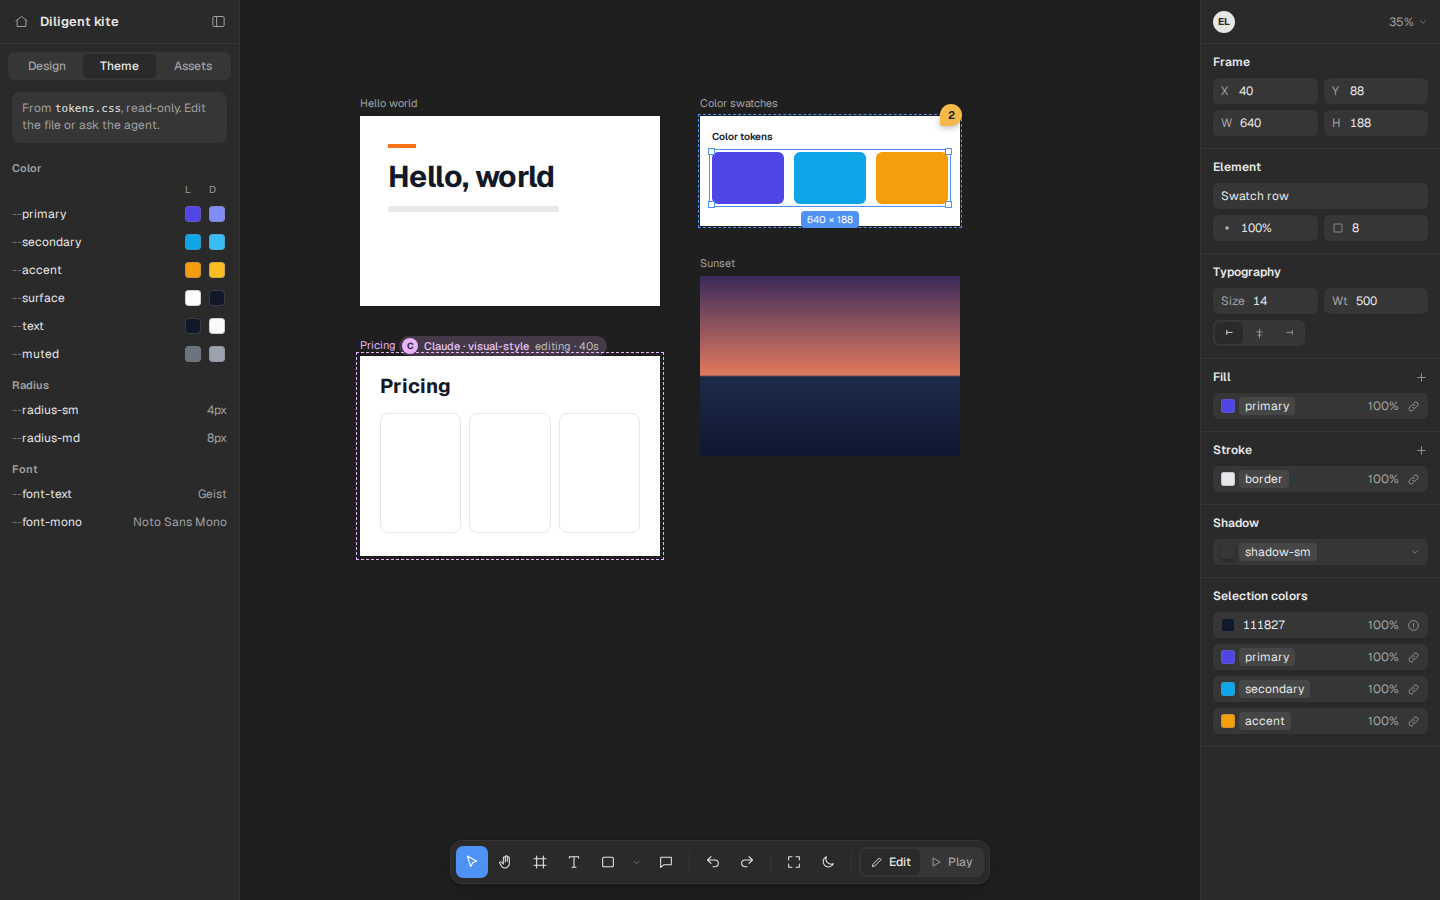
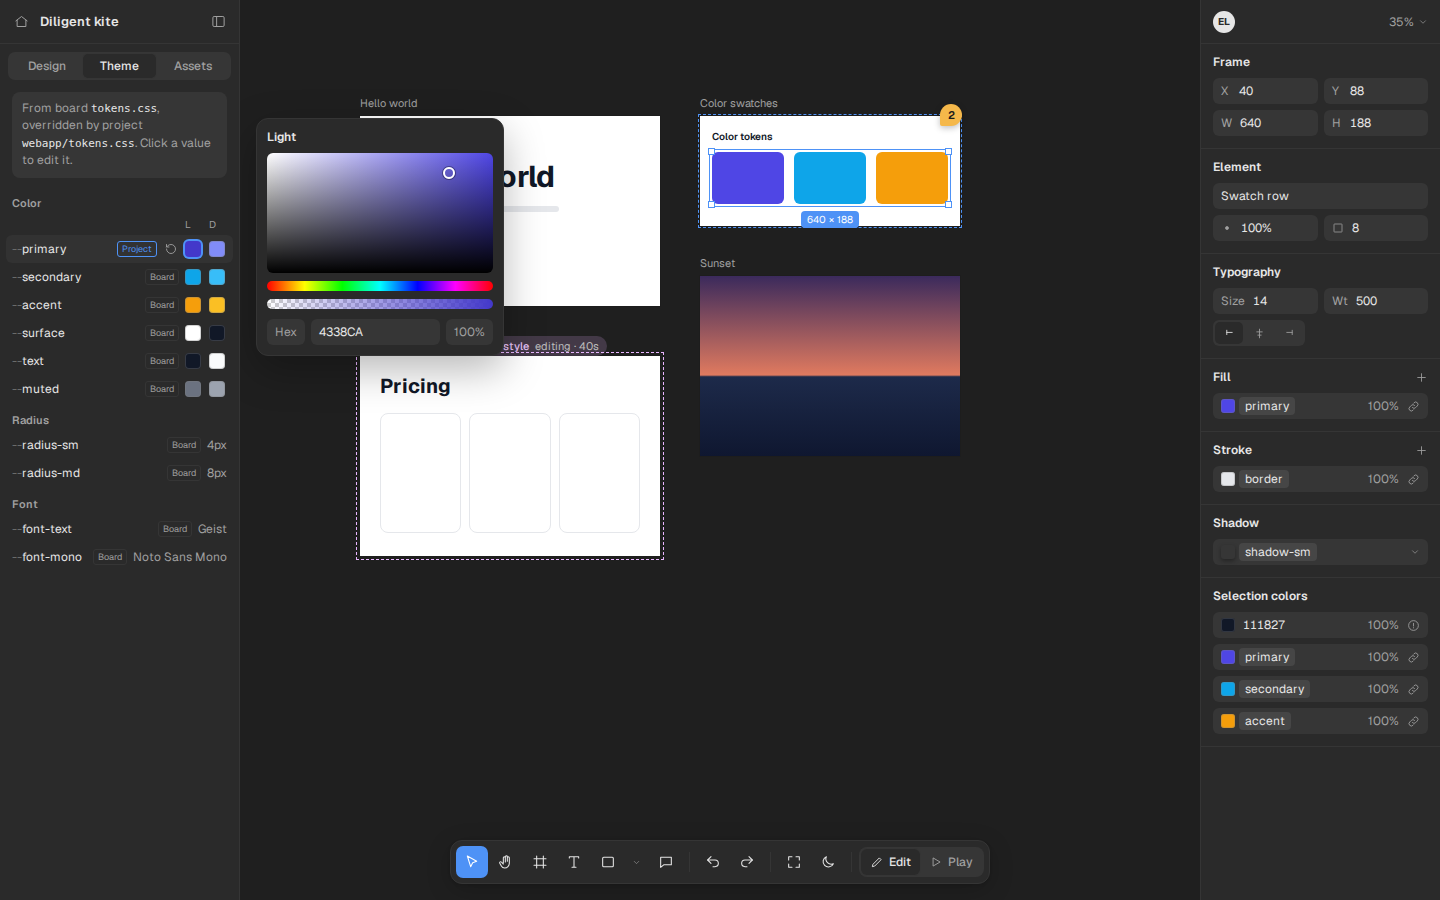
docs(design): redraw the Theme tab with tags, a reset, and the picker

Changed region(s): [[0.1875, 0.1244, 0.375, 0.4356], [0.0, 0.2178, 0.1562, 0.6222], [0.0, 0.0933, 0.1562, 0.1867]]

diff --git a/canon/design/tabs/theme.html b/canon/design/tabs/theme.html
@@ -936,6 +936,100 @@
         white-space: nowrap;
         overflow: hidden;
         text-overflow: ellipsis;
+        flex: 1;
+        min-width: 0;
+      }
+      .trow .th {
+        display: flex;
+        align-items: center;
+        gap: 6px;
+        min-width: 0;
+      }
+      .ttag {
+        flex: none;
+        font-size: 9px;
+        line-height: 14px;
+        padding: 0 4px;
+        border-radius: 3px;
+        border: 1px solid var(--border);
+        color: var(--muted);
+      }
+      .ttag.p {
+        border-color: var(--accent);
+        color: var(--accent);
+      }
+      .trst {
+        flex: none;
+        display: grid;
+        place-items: center;
+        width: 16px;
+        height: 16px;
+        color: var(--muted);
+      }
+      .trow.on {
+        background: var(--hover);
+      }
+      .tsw.ring {
+        box-shadow: 0 0 0 2px var(--accent);
+      }
+      .tpick {
+        position: absolute;
+        left: 16px;
+        top: 118px;
+        width: 248px;
+        padding: 10px;
+        background: var(--panel);
+        border: 1px solid var(--border);
+        border-radius: 12px;
+        box-shadow: 0 14px 40px rgba(0, 0, 0, 0.28);
+        z-index: 6;
+        font-size: 12px;
+      }
+      .tpick b {
+        display: block;
+        font-weight: 600;
+        margin-bottom: 8px;
+      }
+      .tpick .sq {
+        height: 120px;
+        border-radius: 6px;
+        background:
+          linear-gradient(to top, #000, transparent),
+          linear-gradient(to right, #fff, #4f46e5);
+        position: relative;
+      }
+      .tpick .sq i {
+        position: absolute;
+        left: 78%;
+        top: 12%;
+        width: 12px;
+        height: 12px;
+        border-radius: 6px;
+        border: 2px solid #fff;
+        box-shadow: 0 0 0 1px rgba(0, 0, 0, 0.35);
+      }
+      .tpick .bar {
+        height: 10px;
+        border-radius: 5px;
+        margin-top: 8px;
+      }
+      .tpick .hexrow {
+        display: flex;
+        gap: 6px;
+        margin-top: 10px;
+      }
+      .tpick .hf {
+        height: 26px;
+        border-radius: 6px;
+        background: var(--raised);
+        display: flex;
+        align-items: center;
+        padding: 0 8px;
+        color: var(--muted);
+      }
+      .tpick .hf.v {
+        flex: 1;
+        color: var(--text);
       }
       .trow .tn em {
         font-style: normal;
@@ -1251,61 +1345,126 @@
           ><button>Assets</button>
         </div>
         <div class="tsrc">
-          From <code>tokens.css</code>, read-only. Edit the file or ask the
-          agent.
+          From board <code>tokens.css</code>, overridden by project
+          <code>webapp/tokens.css</code>. Click a value to edit it.
         </div>
         <div class="sec"><span>Color</span></div>
         <div class="thead"><span></span><span>L</span><span>D</span></div>
-        <div class="trow">
-          <span class="tn"><em>--</em>primary</span
-          ><span class="tsw" style="background: #4f46e5"></span
+        <div class="trow on">
+          <span class="th"
+            ><span class="tn"><em>--</em>primary</span
+            ><span class="ttag p">Project</span
+            ><span class="trst" title="Reset to the board value"
+              ><svg
+                class="ic"
+                width="12"
+                height="12"
+                viewBox="0 0 24 24"
+                fill="none"
+                stroke="currentColor"
+                stroke-width="1.8"
+                stroke-linecap="round"
+                stroke-linejoin="round"
+              >
+                <path d="M3 12a9 9 0 109-9 9.75 9.75 0 00-6.74 2.74L3 8" />
+                <path d="M3 3v5h5" /></svg></span></span
+          ><span class="tsw ring" style="background: #4338ca"></span
           ><span class="tsw" style="background: #818cf8"></span>
         </div>
         <div class="trow">
-          <span class="tn"><em>--</em>secondary</span
+          <span class="th"
+            ><span class="tn"><em>--</em>secondary</span
+            ><span class="ttag">Board</span></span
           ><span class="tsw" style="background: #0ea5e9"></span
           ><span class="tsw" style="background: #38bdf8"></span>
         </div>
         <div class="trow">
-          <span class="tn"><em>--</em>accent</span
+          <span class="th"
+            ><span class="tn"><em>--</em>accent</span
+            ><span class="ttag">Board</span></span
           ><span class="tsw" style="background: #f59e0b"></span
           ><span class="tsw" style="background: #fbbf24"></span>
         </div>
         <div class="trow">
-          <span class="tn"><em>--</em>surface</span
+          <span class="th"
+            ><span class="tn"><em>--</em>surface</span
+            ><span class="ttag">Board</span></span
           ><span class="tsw" style="background: #ffffff"></span
           ><span class="tsw" style="background: #111827"></span>
         </div>
         <div class="trow">
-          <span class="tn"><em>--</em>text</span
+          <span class="th"
+            ><span class="tn"><em>--</em>text</span
+            ><span class="ttag">Board</span></span
           ><span class="tsw" style="background: #111827"></span
           ><span class="tsw" style="background: #f9fafb"></span>
         </div>
         <div class="trow">
-          <span class="tn"><em>--</em>muted</span
+          <span class="th"
+            ><span class="tn"><em>--</em>muted</span
+            ><span class="ttag">Board</span></span
           ><span class="tsw" style="background: #6b7280"></span
           ><span class="tsw" style="background: #9ca3af"></span>
         </div>
         <div class="sec"><span>Radius</span></div>
         <div class="trow" style="grid-template-columns: 1fr auto">
-          <span class="tn"><em>--</em>radius-sm</span
+          <span class="th"
+            ><span class="tn"><em>--</em>radius-sm</span
+            ><span class="ttag">Board</span></span
           ><span style="color: var(--muted)">4px</span>
         </div>
         <div class="trow" style="grid-template-columns: 1fr auto">
-          <span class="tn"><em>--</em>radius-md</span
+          <span class="th"
+            ><span class="tn"><em>--</em>radius-md</span
+            ><span class="ttag">Board</span></span
           ><span style="color: var(--muted)">8px</span>
         </div>
         <div class="sec"><span>Font</span></div>
         <div class="trow" style="grid-template-columns: 1fr auto">
-          <span class="tn"><em>--</em>font-text</span
+          <span class="th"
+            ><span class="tn"><em>--</em>font-text</span
+            ><span class="ttag">Board</span></span
           ><span style="color: var(--muted)">Geist</span>
         </div>
         <div class="trow" style="grid-template-columns: 1fr auto">
-          <span class="tn"><em>--</em>font-mono</span
+          <span class="th"
+            ><span class="tn"><em>--</em>font-mono</span
+            ><span class="ttag">Board</span></span
           ><span style="color: var(--muted)">Noto Sans Mono</span>
         </div>
       </aside>
       <main class="canvas">
+        <div class="tpick">
+          <b>Light</b>
+          <div class="sq"><i></i></div>
+          <div
+            class="bar"
+            style="
+              background: linear-gradient(
+                to right,
+                red,
+                #ff0,
+                lime,
+                cyan,
+                blue,
+                #f0f,
+                red
+              );
+            "
+          ></div>
+          <div
+            class="bar"
+            style="
+              background:
+                linear-gradient(to right, transparent, #4338ca),
+                repeating-conic-gradient(#ccc 0 25%, #fff 0 50%) 0 0/8px 8px;
+            "
+          ></div>
+          <div class="hexrow">
+            <span class="hf">Hex</span><span class="hf v">4338CA</span
+            ><span class="hf">100%</span>
+          </div>
+        </div>
         <div class="flabel" style="left: 120px; top: 96px">Hello world</div>
         <div
           class="frame"
